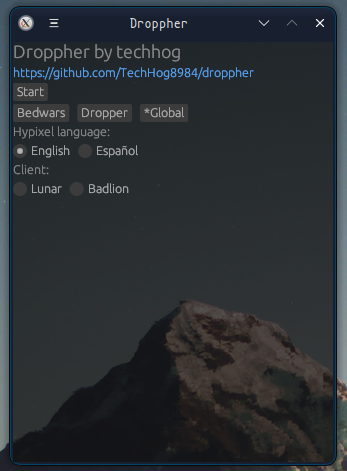
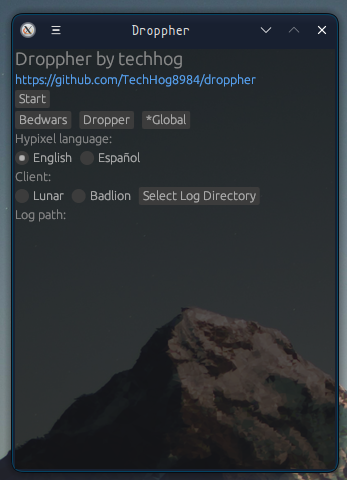
updated image for custom log directory

diff --git a/README.MD b/README.MD
@@ -5,7 +5,7 @@ An assistant for Hypixel dropper
 Droppher provides live notifications displaying information about maps.
 
 ![](assets/image1.png)
-*On Windows the UI is not transparent :(
+*On Windows the UI is not transparent & there is no Select Log Directory option :(
 <br>
 ![](assets/image2.png)
 <br>
